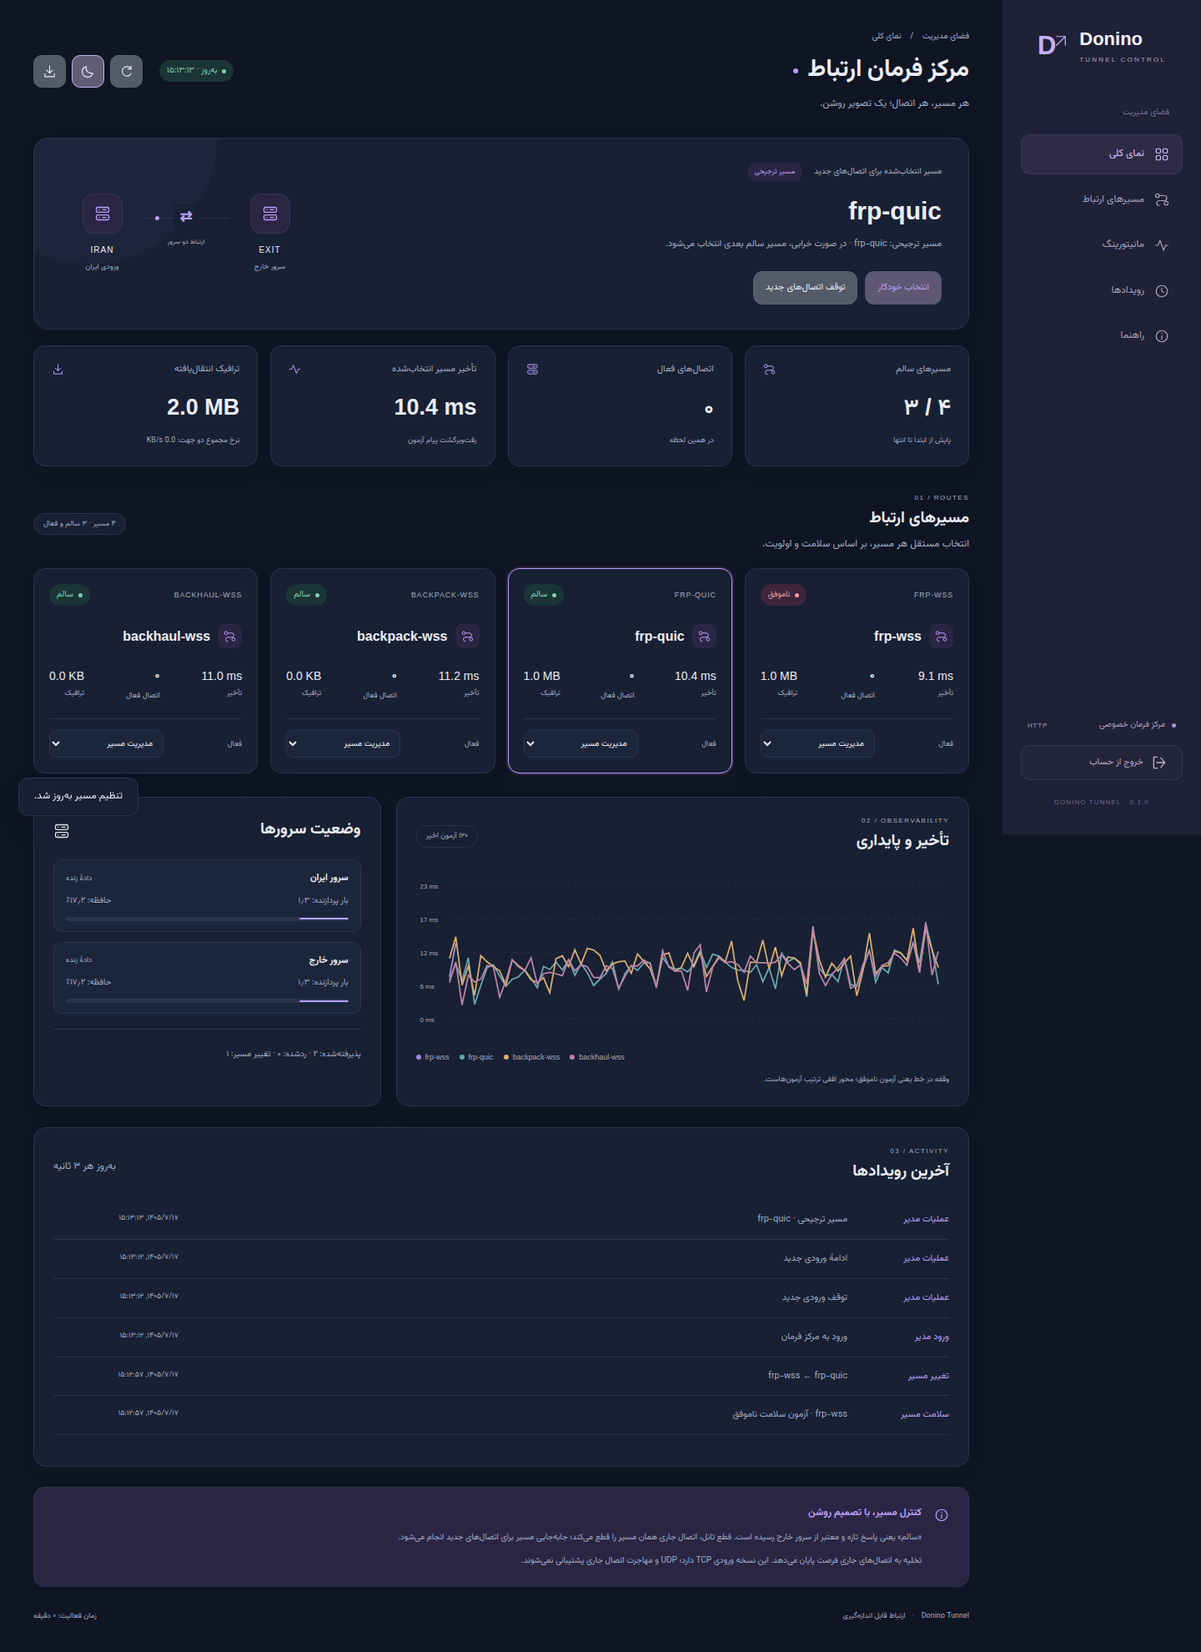
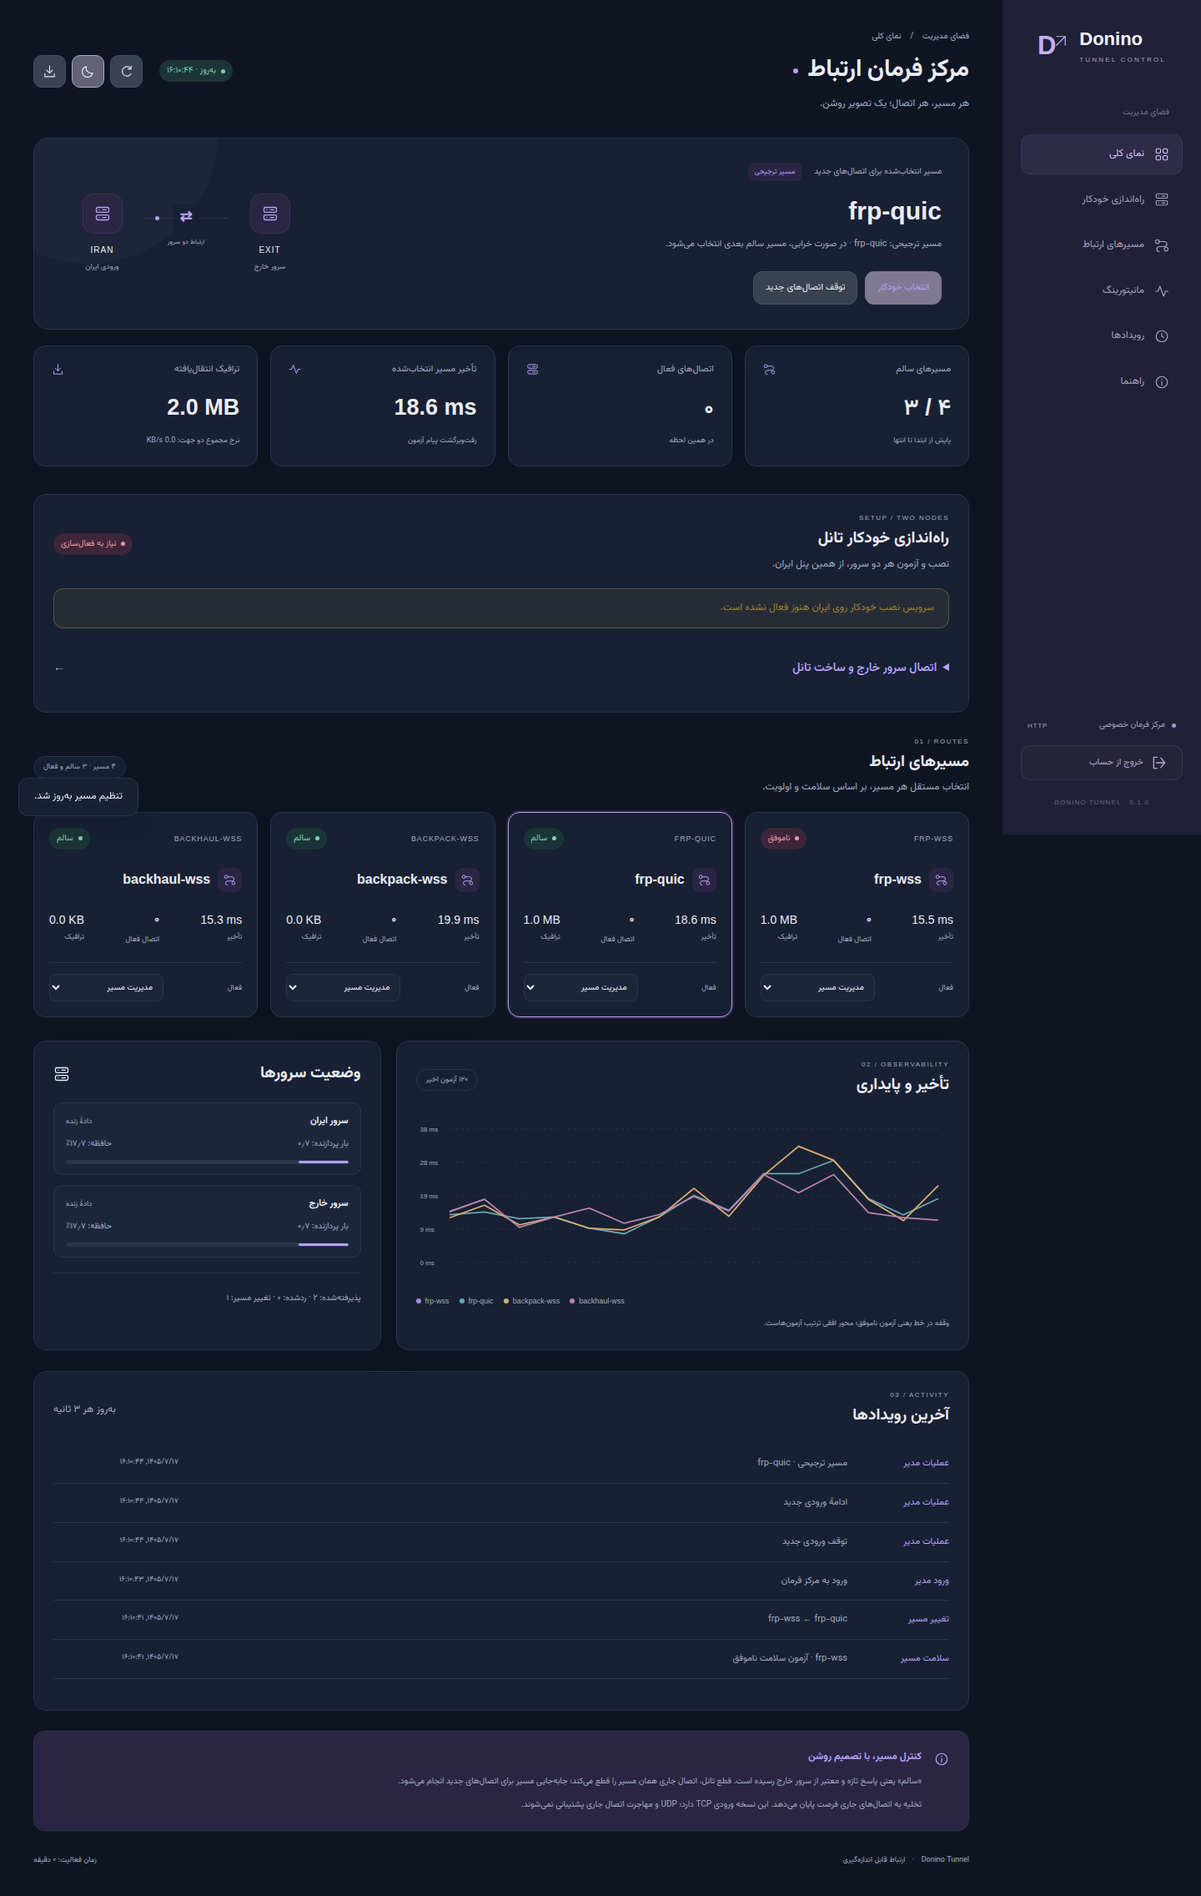
Publish verified two-node installer evidence, setup screenshots and deployment guide

diff --git a/donino_link/web/app.js b/donino_link/web/app.js
@@ -143,7 +143,7 @@ function renderSetup(data){
   $("setup-job-status").textContent=setupStatusNames[job.status]||job.status;$("setup-job-status").className="badge "+(job.status==="succeeded"?"good":["failed","rollback_failed","interrupted"].includes(job.status)?"bad":"");
   $("setup-job-detail").textContent=(setupStageNames[job.stage]||job.stage)+" · "+new Date(job.created*1000).toLocaleString("fa-IR")+(job.error?" · "+job.error:"");
   const latest=new Map();job.events.forEach(e=>latest.set(e.stage,e));$("setup-job-steps").replaceChildren(...[...latest.values()].map(e=>{const n=el("li",undefined,"step-"+e.status);n.append(el("strong",setupStageNames[e.stage]||e.stage),el("small",e.status==="done"?"انجام شد":e.status==="running"?"در حال اجرا":"نیاز به بررسی"));return n;}));
-  $("setup-job-probes").replaceChildren(...job.probes.map(p=>el("div",p.path+" · "+(p.ok?"OK · "+p.latency_ms+" ms":"FAILED"),"setup-job-probe")));
+  $("setup-job-probes").replaceChildren(...job.probes.map(p=>{const failed=Object.entries(p.services||{}).filter(([,ok])=>!ok).map(([id])=>id);return el("div",p.path+" · "+(p.ok?"مسیر سالم · "+p.latency_ms+" ms":"مسیر ناموفق")+(failed.length?" · مقصد ناموفق: "+failed.join(", "):""),"setup-job-probe");}));
 }
 async function pollSetup(){if(!csrf||setupPolling)return;setupPolling=true;const session=csrf;try{const d=await api("/api/provision/state");if(csrf===session)renderSetup(d);}catch(e){if(csrf===session){$("setup-status").textContent="در انتظار ارتباط";$("setup-status").className="badge bad";}}finally{setupPolling=false;}}
 async function setupCall(path,body){if(setupRequest)throw new Error("یک درخواست نصب در حال انجام است؛ منتظر نتیجه بمان.");setupRequest=true;$("connection-save").disabled=true;$("setup-preview").disabled=true;$("setup-start").disabled=true;try{return await api(path,body);}finally{setupRequest=false;if(setupState)renderSetup(setupState);}}

diff --git a/docs/validation.md b/docs/validation.md
@@ -4,13 +4,13 @@
 
 ## آزمون واحد و امنیت
 
-۳۶ تست شامل اعتبارسنجی endpoint و تنظیمات، امضای تازهٔ probe، رد listener جعلی، hysteresis، fallback قبل از مصرف داده، حفظ half-close، drain، حالت پایدار مدیر، ورود و CSRF و Origin و خروج، rate limit، عدم افشای راز، metrics، قوانین raw scoped، SSH injection، جداسازی کلیدهای node، تولید و تمدید گواهی/pin، پورت 443 مستقل روی دو node، مرز frame، لایهٔ مشترک انتقال، انتخاب صریح HTTP عمومی، رد برخورد پورت و حفظ دسترسی فایل تنظیمات است. ماتریس CI با Python 3.11، 3.12 و 3.13 اجرا میشود.
+۵۰ تست شامل اعتبارسنجی endpoint و تنظیمات، امضای تازهٔ probe، رد listener جعلی، hysteresis، fallback قبل از مصرف داده، حفظ half-close، drain، حالت پایدار مدیر، ورود و CSRF و Origin و خروج، rate limit، عدم افشای راز، metrics، قوانین raw scoped، SSH injection، جداسازی کلیدهای node، تولید و تمدید گواهی/pin، پورت 443 مستقل روی دو node، مرز frame، لایهٔ مشترک انتقال، انتخاب صریح HTTP عمومی، رد برخورد پورت و حفظ دسترسی فایل تنظیمات است. ثبت fingerprint معتبر، جلوگیری از شروع بدون مرور نقشه، حفظ credential پنل، آمادهسازی هر دو نقش پیش از فعالسازی، rollback جزئی و بازیابی journal، و قواعد UFW اختصاصی نیز تست شدهاند. ماتریس CI با Python 3.11، 3.12 و 3.13 اجرا میشود.
 
 ## موتورهای واقعی
 
 نسخههای ثابت در manifest دانلود، SHA256 بررسی و برنامههای اصلی اجرا شدند: FRP WSS، FRP QUIC، BackPack WSS و Backhaul WSS. در هر مسیر ۲ MiB upload و ۲ MiB پاسخ، با تطابق SHA256 و پاسخ بعد از EOF آپلود بررسی میشود. mTLS نبودِ گواهی client را رد میکند. FRP WSS عمداً قطع میشود و ۵۱۲ KiB اتصال جدید از QUIC میگذرد. [خروجی محلی](evidence/local-engine-tests.json).
 
-Paqet فقط به لحاظ ساخت config، cipher موجود در source و قواعد محدود iptables بررسی شده؛ عنوان pass end-to-end برای آن نداریم. Backhaul آزمایشی با محدودیت شناختهشدهٔ server authentication است، حتی اگر payload loopback آن صحیح منتقل شود.
+Paqet علاوه بر ساخت config، cipher و قواعد محدود iptables، در آزمون نصب دو node روی Docker bridge، probe واقعی امضاشدهٔ end-to-end داده است. در همان آزمون، ۲ MiB در هر جهت از gateway با انتخاب صریح Paqet، تطابق SHA256 و حفظ half-close گذشت؛ این نتیجه benchmark WAN نیست. Backhaul آزمایشی با محدودیت شناختهشدهٔ server authentication است، حتی اگر payload loopback آن صحیح منتقل شود.
 
 ## مرورگر واقعی
 
@@ -22,8 +22,16 @@ Paqet فقط به لحاظ ساخت config، cipher موجود در source و ق
 
 ## پنل واقعی
 
-Playwright روی پنلِ متصل به چهار موتور واقعی تست ورود، توقف/ادامه، prefer، بهروزرسانی دستی، ماندگاری تم روشن/تیره بعد از reload و خروج موبایل را انجام میدهد. viewport دسکتاپ 1440×1000 و موبایل 390×844؛ خطای JavaScript و overflow افقی بررسی میشود. تصاویر [دسکتاپ](evidence/panel-desktop.png) و [موبایل](evidence/panel-mobile.png) از fixture محلی روی runner هستند، نه سرورهای واقعی ایران و خارج. تصویر بعد از قطع عمدی مسیر WSS گرفته شد؛ قرمز بودن آن مسیر انتظار آزمون است. تصاویر بازبینی بصری شدند؛ پنل جدید در هر دو تم و موبایل خوانا و بدون overflow است. [حالت تیره](evidence/panel-dark.png)، [صفحهٔ ورود](evidence/panel-login.png) و [نتیجهٔ آزمون](evidence/panel-ui-tests.json). HTTP عمومی با انتخاب صریح آماده است؛ استقرار واقعی روی VPS هنوز انجام نشده است.
+Playwright روی پنلِ متصل به چهار موتور واقعی تست ورود، توقف/ادامه، prefer، بهروزرسانی دستی، ماندگاری تم روشن/تیره بعد از reload و خروج موبایل را انجام میدهد. viewport دسکتاپ 1440×1000 و موبایل 390×844؛ خطای JavaScript و overflow افقی بررسی میشود. تصاویر [دسکتاپ](evidence/panel-desktop.png) و [موبایل](evidence/panel-mobile.png) از fixture محلی روی runner هستند، نه سرورهای واقعی ایران و خارج. تصویر بعد از قطع عمدی مسیر WSS گرفته شد؛ قرمز بودن آن مسیر انتظار آزمون است. تصاویر بازبینی بصری شدند؛ پنل جدید در هر دو تم و موبایل خوانا و بدون overflow است. [حالت تیره](evidence/panel-dark.png)، [صفحهٔ ورود](evidence/panel-login.png) و [نتیجهٔ آزمون](evidence/panel-ui-tests.json). فرم نصب با fixture صریح API، مرور نقشه، الزام تأیید، نمایش پیشرفت و حالت بازِ موبایل نیز تست شده است؛ این تست UI جایگزین آزمون نصب واقعی زیر نیست. [فرم دسکتاپ](evidence/panel-setup.png) و [فرم موبایل](evidence/panel-setup-mobile.png) بازبینی شدهاند. HTTP عمومی با انتخاب صریح آماده است؛ استقرار واقعی روی VPS هنوز انجام نشده است.
+
+## نصب واقعی دو node در systemd
+
+GitHub Actions دو container مستقل Debian 12 با systemd، SSH و UFW فعال ساخته است. نصب پایه با خود installer و سپس نصب هر شش حامل از HTTP پنل ایران، socket خصوصی و SSH واقعی انجام شد. مرورگر Chromium با namespace/seccomp sandbox اجرا شد. هر مسیر probe تازهٔ امضاشده و سلامت origin داد؛ دروازه پس از دو دور بررسی سلامت، با انتخاب صریح هر حامل ۲ MiB در هر جهت منتقل کرد. شمارندهٔ همان مسیر و SHA256 و پاسخ پس از upload EOF بررسی شدند.
+
+مقصد TCP ناموجود پیش از فعالسازی شکست خورد و release هر دو node حفظ شد. پورت حامل عمداً بسته شد: هر دو node فعال شدند، probe شکست خورد، ایران و سپس خارج واقعاً rollback شدند؛ release قبلی، پنل و رمز حفظ شدند. UFW فقط قواعد app همین release را اضافه کرد و قواعد اولیهٔ fixture باقی ماندند. [نتیجه و journal مراحل](evidence/provision-systemd-tests.json).
+
+این آزمون Linux amd64 روی Docker bridge خصوصی و runner موقت است؛ برای آن اپراتور CI دسترسی privileged و policy مجاز namespace فراهم کرده است. نصبکنندهٔ تولیدی این policy را تغییر نمیدهد و دسترسی raw/namespace سرور را پیشبررسی میکند. نتیجهٔ CI جایگزین آزمایش روی دو VPS واقعی و شبکهٔ ایران نیست.
 
 ## پذیرش شبکهٔ واقعی
 
-قبل از استفادهٔ جدی، دو سرور با ساعت صحیح، پورتهای provider باز، سرویس واقعی loopback، SSH معتبر و دامنه/گواهی مناسب لازماند. installer با dry-run و بستهبندی تست شده اما نصب واقعی و rollback واقعی systemd هنوز نیازمند VPS است. پس از نصب، health و app payload جدا بررسی، سپس soak test و reconnect هنگام تغییر مسیر انجام شود. packet loss، شکست handshake، p95 latency، upload/download، مصرف منابع و زمان بازیابی ثبت شوند. IP/دامنه یا uplink مشترک ممکن است همهٔ carrierها را همزمان از دسترس خارج کند.
+قبل از استفادهٔ جدی، دو سرور با ساعت صحیح، پورتهای provider باز، سرویس واقعی loopback، SSH معتبر و دامنه/گواهی مناسب لازماند. نصب و rollback واقعی systemd در محیط دو node آزمایشی انجام شده؛ پذیرش روی دو VPS در مسیر ایران↔خارج هنوز انجام نشده است. پس از نصب، health و app payload جدا بررسی، سپس soak test و reconnect هنگام تغییر مسیر انجام شود. packet loss، شکست handshake، p95 latency، upload/download، مصرف منابع و زمان بازیابی ثبت شوند. IP/دامنه یا uplink مشترک ممکن است همهٔ carrierها را همزمان از دسترس خارج کند.

diff --git a/README.md b/README.md
@@ -24,7 +24,7 @@
 
 ## راهاندازی از داخل پنل
 
-پنل ایران اکنون اتصال SSH خارج، انتخاب هر شش حامل، نقشهٔ نصب، آمادهسازی هر دو node، فعالسازی مرحلهای، آزمون تمام مسیرها و بازگشت در شکست را مدیریت میکند. کاربر وب محدود است؛ سرویس نصب root جداگانه از socket محلی استفاده میکند. [راهنمای نصب از پنل](docs/panel-installer.md). اجازهٔ SSH خارج و باز بودن پورتهای provider باید یکبار فراهم شوند.
+پنل ایران اکنون اتصال SSH خارج، انتخاب هر شش حامل، نقشهٔ نصب، آمادهسازی هر دو node، فعالسازی مرحلهای، آزمون تمام مسیرها و بازگشت در شکست را مدیریت میکند. کاربر وب محدود است؛ سرویس نصب root جداگانه از socket محلی استفاده میکند. [راهنمای نصب از پنل](docs/panel-installer.md) · [تصویر فرم نصب](docs/evidence/panel-setup.png). اجازهٔ SSH خارج و باز بودن پورتهای provider باید یکبار فراهم شوند.
 
 ## نصب
 
@@ -84,6 +84,6 @@ python scripts/test-engines.py
 python scripts/test-browser.py --chromium /usr/bin/chromium --output browser-results.json
 ```
 
-آزمون مرورگر باید در محیطی اجرا شود که IPC داخلی Chromium مجاز باشد. آزمون واحد جایگزین آزمون مرورگر واقعی نیست. [GitHub Actions](https://github.com/danialrad04-sketch/donino-tunnel/actions) هر سه نوع آزمون را اجرا میکند.
+آزمون مرورگر باید در محیطی اجرا شود که IPC داخلی Chromium مجاز باشد. آزمون واحد جایگزین آزمون مرورگر واقعی نیست. [GitHub Actions](https://github.com/danialrad04-sketch/donino-tunnel/actions) ماتریس واحد، موتورهای واقعی، مرورگر، رابط پنل و نصب دو node با systemd را اجرا میکند.
 
 کد خود پروژه MIT است. موتورهای دانلودشده و فونت مجوز مستقل دارند؛ [مجوزها](docs/research.md#licenses) را ببین.

diff --git a/docs/research.md b/docs/research.md
@@ -1,6 +1,6 @@
 # پژوهش روشها — ۲۰۲۶-۱۰-۰۹
 
-این یک بررسی هدفمندِ ۲۶ خانواده است، نه ادعای مطالعهٔ همهٔ مخازن اینترنت. README/مستندات اولیهٔ خانوادهها بررسی شدند. برای FRP، BackPack، Backhaul و Paqet علاوه بر مستندات، config و کد شبکه/امنیت نسخهٔ ثابت بررسی شد. چهار carrier با binary واقعی در Linux loopback آزمون شدند؛ Paqet در شبکهٔ واقعی آزمایش نشده است.
+این یک بررسی هدفمندِ ۲۶ خانواده است، نه ادعای مطالعهٔ همهٔ مخازن اینترنت. README/مستندات اولیهٔ خانوادهها بررسی شدند. برای FRP، BackPack، Backhaul و Paqet علاوه بر مستندات، config و کد شبکه/امنیت نسخهٔ ثابت بررسی شد. چهار carrier با binary واقعی در Linux loopback آزمون شدند؛ آزمون تکمیلی systemd هر شش carrier، شامل Paqet raw و مرورگر، را با ۲ MiB در هر جهت روی Docker bridge بررسی کرد. Paqet در WAN واقعی آزمایش نشده است.
 
 | خانواده و منبع اولیه | کاربرد/ویژگی | تصمیم این نسخه |
 |---|---|---|
